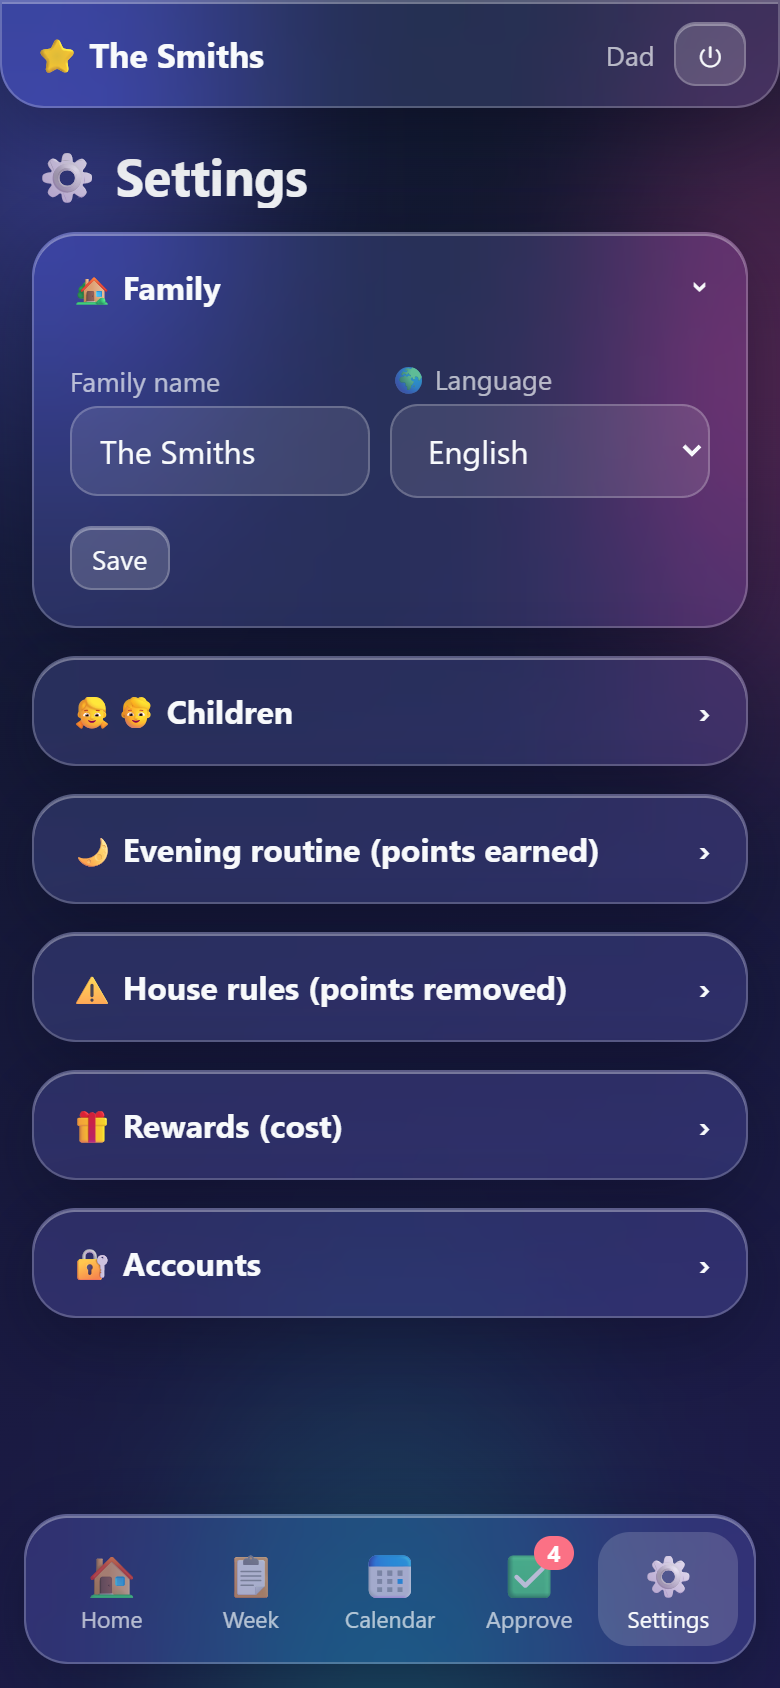
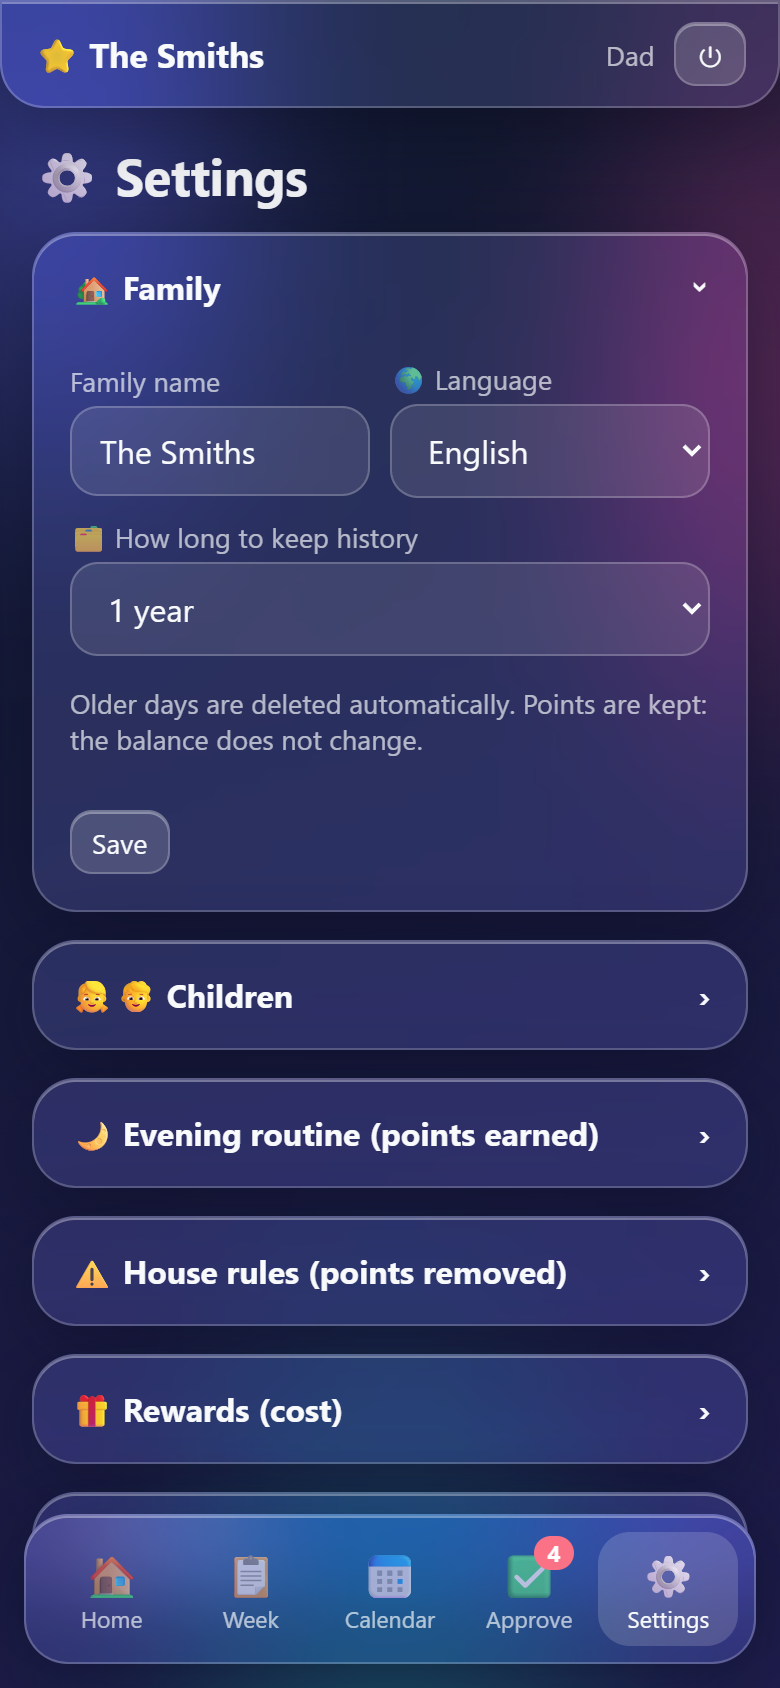
History retention: 1 year by default (6 months / 2 years / unlimited), balances preserved

Changed region(s): [[0.0308, 0.3081, 0.9846, 0.955]]

diff --git a/app/templates/settings.html b/app/templates/settings.html
@@ -19,6 +19,13 @@
             {% endfor %}
           </select></div>
       </div>
+      <label>🗂 {{ _("Durée de conservation de l'historique") }}</label>
+      <select name="retention">
+        {% for months, label in retention_choices.items() %}
+          <option value="{{ months }}" {{ 'selected' if months == retention }}>{{ _(label) }}</option>
+        {% endfor %}
+      </select>
+      <p class="small dim">{{ _("Les journées plus anciennes sont effacées automatiquement. Les points restent acquis : le solde ne change pas.") }}</p>
       <button class="btn-sm mt">{{ _('Enregistrer') }}</button>
     </form>
   </div>

diff --git a/app/logic.py b/app/logic.py
@@ -3,7 +3,7 @@ import calendar
 from datetime import date, datetime, timedelta
 from zoneinfo import ZoneInfo
 
-from sqlalchemy import func, select
+from sqlalchemy import delete, func, select
 from sqlalchemy.orm import Session
 
 from . import config
@@ -51,7 +51,7 @@ def balance(db: Session, child: Child, before: date | None = None) -> int:
         Entry.child_id == child.id, Entry.status == APPROVED)
     if before is not None:
         q = q.where(Entry.day < before)
-    return child.starting_balance + db.scalar(q)
+    return child.starting_balance + child.archived_points + db.scalar(q)
 
 
 def pending_reward_cost(db: Session, child_id: int) -> int:
@@ -119,3 +119,53 @@ def month_activity(db: Session, child_id: int, first: date, last: date) -> tuple
         select(Entry.day).where(Entry.child_id == child_id, Entry.status == PENDING,
                                 Entry.day.between(first, last)).distinct()))
     return nets, pending
+
+
+# --- Rétention de l'historique ---------------------------------------------------------------
+
+RETENTION_CHOICES = (6, 12, 24, 0)  # en mois ; 0 = illimité
+DEFAULT_RETENTION_MONTHS = 12
+
+
+def retention_months(db: Session) -> int:
+    try:
+        months = int(get_setting(db, "retention_months", str(DEFAULT_RETENTION_MONTHS)))
+    except ValueError:
+        return DEFAULT_RETENTION_MONTHS
+    return months if months in RETENTION_CHOICES else DEFAULT_RETENTION_MONTHS
+
+
+def retention_cutoff(months: int, ref: date | None = None) -> date | None:
+    """Premier jour conservé (les saisies antérieures sont effacées), None si illimité."""
+    if not months:
+        return None
+    ref = ref or today()
+    year, month = divmod(ref.year * 12 + ref.month - 1 - months, 12)
+    return date(year, month + 1, min(ref.day, calendar.monthrange(year, month + 1)[1]))
+
+
+def purge_old_entries(db: Session, ref: date | None = None) -> int:
+    """Efface les saisies plus anciennes que la durée de conservation.
+
+    Le total des saisies validées effacées est reporté dans `Child.archived_points` : le solde est inchangé.
+    Retourne le nombre de saisies effacées.
+    """
+    ref = ref or today()
+    set_setting(db, "last_purge", ref.isoformat())
+    cutoff = retention_cutoff(retention_months(db), ref)
+    if cutoff is None:
+        db.commit()
+        return 0
+    totals = db.execute(select(Entry.child_id, func.sum(Entry.points))
+                        .where(Entry.day < cutoff, Entry.status == APPROVED).group_by(Entry.child_id)).all()
+    for child_id, total in totals:
+        db.get(Child, child_id).archived_points += total
+    count = db.execute(delete(Entry).where(Entry.day < cutoff)).rowcount
+    db.commit()
+    return count
+
+
+def purge_if_due(db: Session) -> None:
+    """Nettoyage au plus une fois par jour, déclenché par l'ouverture de l'accueil."""
+    if get_setting(db, "last_purge") != today().isoformat():
+        purge_old_entries(db)

diff --git a/app/main.py b/app/main.py
@@ -419,6 +419,7 @@ def logout(request: Request):
 
 @app.get("/", response_class=HTMLResponse)
 def home(request: Request, user: User = Depends(current_user), db: Session = Depends(get_db)):
+    logic.purge_if_due(db)
     t = logic.today()
     cards = [{"child": c, "balance": logic.balance(db, c), "today": logic.day_net(db, c.id, t),
               "pending": logic.pending_count(db, c.id)} for c in logic.children(db)]
@@ -643,6 +644,8 @@ def calendar_page(request: Request, enfant: int | None = None, m: str | None = N
 # --- Réglages (parents) ------------------------------------------------------------------------
 
 CATALOG = {"habitude": Habit, "penalite": Rule, "recompense": Reward}
+# Marqués avec _() pour l'extraction ; traduits à l'affichage par _(label) dans le template.
+RETENTION_LABELS = {6: _("6 mois"), 12: _("1 an"), 24: _("2 ans"), 0: _("Illimité")}
 
 
 @app.get("/reglages", response_class=HTMLResponse)
@@ -650,12 +653,14 @@ def settings_page(request: Request, user: User = Depends(parent_user), db: Sessi
     return render(request, "settings.html", user, db, children=logic.children(db, include_inactive=True),
                   habits=catalog_items(db, Habit), rules=catalog_items(db, Rule),
                   rewards=catalog_items(db, Reward), colors=CHILD_COLORS, languages=i18n.LANGUAGES,
+                  retention=logic.retention_months(db), retention_choices=RETENTION_LABELS,
                   users=db.scalars(select(User).order_by(User.role.desc(), User.id)).all())
 
 
 @app.post("/reglages/famille", dependencies=CSRF)
 def settings_family(request: Request, family_name: str = Form(""), language: str = Form(""),
-                    _user: User = Depends(parent_user), db: Session = Depends(get_db)):
+                    retention: str = Form(""), _user: User = Depends(parent_user),
+                    db: Session = Depends(get_db)):
     name = family_name.strip()[:50]
     if not name:
         flash(request, _("Le nom de la famille ne peut pas être vide."), "error")
@@ -664,6 +669,9 @@ def settings_family(request: Request, family_name: str = Form(""), language: str
     if language in i18n.LANGUAGES:
         logic.set_setting(db, "language", language)
         i18n.set_language(language)
+    if retention.isdigit() and int(retention) in logic.RETENTION_CHOICES:
+        logic.set_setting(db, "retention_months", retention)
+        logic.purge_old_entries(db)  # applique tout de suite une durée raccourcie
     db.commit()
     clear_language_cache()
     flash(request, _("Réglages de la famille enregistrés."))

diff --git a/tests/test_app.py b/tests/test_app.py
@@ -280,3 +280,46 @@ def test_missing_session_cookie_has_clear_message(setup_done):
     with TestClient(app) as c:
         r = c.post("/login", data={"username": "papa", "password": "x", "csrf": "abc"})
         assert r.status_code == 400 and "cookie de session" in r.text
+
+
+def test_retention_cutoff():
+    from datetime import date
+    assert logic.retention_cutoff(12, date(2026, 10, 14)) == date(2025, 10, 14)
+    assert logic.retention_cutoff(6, date(2026, 3, 31)) == date(2025, 9, 30)  # 31 → fin de mois
+    assert logic.retention_cutoff(24, date(2028, 2, 29)) == date(2026, 2, 28)
+    assert logic.retention_cutoff(0) is None
+
+
+def test_purge_keeps_balance(parent, setup_done):
+    lea = setup_done[0]
+    start = balance(lea)
+    old_day = logic.today() - timedelta(days=400)
+    with SessionLocal() as db:
+        kid_user = db.query(User).filter_by(username="enfants").one()
+        common = dict(child_id=lea, day=old_day, created_at=logic.now())
+        db.add_all([
+            Entry(**common, kind="bonus", label="Ancien bonus", points=7, status="approved"),
+            Entry(**common, kind="penalty", label="Ancienne pénalité", points=-2, status="approved"),
+            Entry(**common, kind="habit", label="Jamais validé", points=1, status="pending",
+                  created_by_id=kid_user.id),
+        ])
+        db.commit()
+    assert balance(lea) == start + 5
+    with SessionLocal() as db:
+        deleted = logic.purge_old_entries(db)
+        assert deleted == 3
+        assert db.query(Entry).filter(Entry.day < logic.today() - timedelta(days=366)).count() == 0
+        assert db.query(Entry).filter(Entry.day >= logic.today() - timedelta(days=1)).count() > 0
+    assert balance(lea) == start + 5  # solde inchangé : les points effacés sont archivés
+    # La semaine en cours garde le même total qu'avant
+    with SessionLocal() as db:
+        s = logic.week_summary(db, db.get(Child, lea), logic.week_start(logic.today()))
+        assert s["closing"] == balance(lea)
+
+
+def test_retention_setting(parent):
+    post(parent, "/reglages/famille", {"family_name": "Famille Test", "language": "fr", "retention": "24"})
+    with SessionLocal() as db:
+        assert logic.retention_months(db) == 24
+    assert 'value="24" selected' in parent.get("/reglages").text
+    post(parent, "/reglages/famille", {"family_name": "Famille Test", "language": "fr", "retention": "12"})

diff --git a/app/cli.py b/app/cli.py
@@ -4,6 +4,7 @@
     python -m app.cli reset-password <identifiant>     # mot de passe d'un parent
     python -m app.cli reset-pin                        # code PIN des enfants
     python -m app.cli backup <dossier>                 # copie de sauvegarde de la base (garde 30 copies)
+    python -m app.cli purge                            # applique la durée de conservation de l'historique
 
 Le nouveau mot de passe / code est demandé de façon masquée (rien n'apparaît dans l'historique du shell).
 Avec Docker : docker compose exec app python -m app.cli reset-password <identifiant>
@@ -19,7 +20,7 @@ from pathlib import Path
 
 from sqlalchemy import select
 
-from . import config
+from . import config, logic
 from .db import SessionLocal, upgrade_schema
 from .main import KIDS_USERNAME, PIN_RE
 from .models import KIDS, PARENT, User
@@ -98,6 +99,7 @@ def main(argv: list[str] | None = None) -> int:
     sub.add_parser("reset-pin", help="Réinitialiser le code PIN des enfants / reset the children's PIN")
     p = sub.add_parser("backup", help="Sauvegarder la base / back up the database")
     p.add_argument("target_dir")
+    sub.add_parser("purge", help="Effacer l'historique trop ancien / delete history past the retention period")
     args = parser.parse_args(argv)
 
     upgrade_schema()
@@ -107,6 +109,10 @@ def main(argv: list[str] | None = None) -> int:
         return reset_password(args.username)
     if args.command == "backup":
         return backup(args.target_dir)
+    if args.command == "purge":
+        with SessionLocal() as db:
+            print(f"{logic.purge_old_entries(db)} saisie(s) effacée(s) / entries deleted")
+        return 0
     return reset_pin()
 
 

diff --git a/app/db.py b/app/db.py
@@ -38,6 +38,8 @@ def upgrade_schema() -> None:
         columns = {c["name"] for c in inspect(conn).get_columns("children")}
         if "active" not in columns:  # v1 -> v2 : enfants masquables
             conn.execute(text("ALTER TABLE children ADD COLUMN active BOOLEAN NOT NULL DEFAULT 1"))
+        if "archived_points" not in columns:  # rétention de l'historique
+            conn.execute(text("ALTER TABLE children ADD COLUMN archived_points INTEGER NOT NULL DEFAULT 0"))
         installed = conn.execute(text("SELECT 1 FROM users LIMIT 1")).first() is not None
         has_language = conn.execute(text("SELECT 1 FROM app_settings WHERE key = 'language'")).first()
         if installed and not has_language:  # v1 installée avant le choix de la langue

diff --git a/app/models.py b/app/models.py
@@ -42,6 +42,8 @@ class Child(Base):
     color: Mapped[str] = mapped_column(String(20), default="#a78bfa")
     # Solde de départ (report des fiches papier)
     starting_balance: Mapped[int] = mapped_column(Integer, default=0)
+    # Total des saisies validées effacées par la rétention : le solde ne change pas quand on purge.
+    archived_points: Mapped[int] = mapped_column(Integer, default=0)
     sort: Mapped[int] = mapped_column(Integer, default=0)
     # Un enfant retiré est masqué mais son historique est conservé.
     active: Mapped[bool] = mapped_column(Boolean, default=True)

diff --git a/README.fr.md b/README.fr.md
@@ -38,6 +38,8 @@ chez un service tiers.
 - ✅ **Validation parentale** : ce que cochent les enfants reste « en attente » jusqu'à validation d'un parent.
 - 📋 **Vue semaine** identique à la fiche papier (gagnés / retirés / bonus / récompenses / total, points conservés).
 - 📅 **Calendrier** mensuel par enfant, avec le total de chaque jour.
+- 🗂 **Historique conservé 1 an** par défaut (6 mois, 2 ans ou illimité au choix) : les journées plus anciennes
+  sont effacées automatiquement, sans toucher au solde (les points sont archivés).
 - ✏ **Tout est modifiable** par les parents, directement depuis la journée ou dans les réglages ;
   modifier une règle ne change pas l'historique.
 - 🌍 **6 langues** : français, anglais, espagnol, allemand, italien, portugais (choisie à l'installation).
@@ -191,6 +193,8 @@ Après 10 tentatives de connexion ratées, une adresse IP est bloquée 15 minute
 - **Sauvegarde** : toutes les données tiennent dans un fichier (`childs_rewards.db`). L'installation
   Debian/LXC en fait une copie chaque nuit dans `/var/backups/childs-rewards`. Manuellement :
   `python -m app.cli backup <dossier>`. Pensez aussi à sauvegarder le container lui-même (ex. sauvegardes Proxmox).
+- **Durée de conservation** : réglable dans ⚙ Réglages → Famille (1 an par défaut). Le nettoyage se fait
+  automatiquement une fois par jour ; manuellement : `python -m app.cli purge`.
 - **Restauration** : arrêter le service, remettre le fichier dans `/var/lib/childs-rewards/childs_rewards.db`, redémarrer.
 - **Mise à jour** :
 

diff --git a/README.md b/README.md
@@ -37,6 +37,8 @@ It is self-hosted (LXC container, VM, Raspberry Pi, NAS with Docker…): no data
 - ✅ **Parental approval**: whatever children tick stays "pending" until a parent approves it.
 - 📋 **Weekly view** matching the paper chart (earned / removed / bonus / rewards / total, points carried over).
 - 📅 **Monthly calendar** per child, with each day's total.
+- 🗂 **History kept for 1 year** by default (6 months, 2 years or unlimited): older days are deleted
+  automatically without changing the balance (their points are archived).
 - ✏ **Everything is editable** by parents, right from the day page or in the settings;
   editing a rule does not change past entries.
 - 🌍 **6 languages**: French, English, Spanish, German, Italian, Portuguese (chosen during setup).
@@ -188,6 +190,8 @@ After 10 failed sign-in attempts, an IP address is blocked for 15 minutes.
 - **Backup**: all data lives in one file (`childs_rewards.db`). The Debian/LXC install copies it every night
   to `/var/backups/childs-rewards`. Manually: `python -m app.cli backup <folder>`.
   Also back up the container itself (e.g. Proxmox backups).
+- **History retention**: set in ⚙ Settings → Family (1 year by default). Cleanup runs automatically once a day;
+  manually: `python -m app.cli purge`.
 - **Restore**: stop the service, put the file back as `/var/lib/childs-rewards/childs_rewards.db`, restart.
 - **Update**:
 
